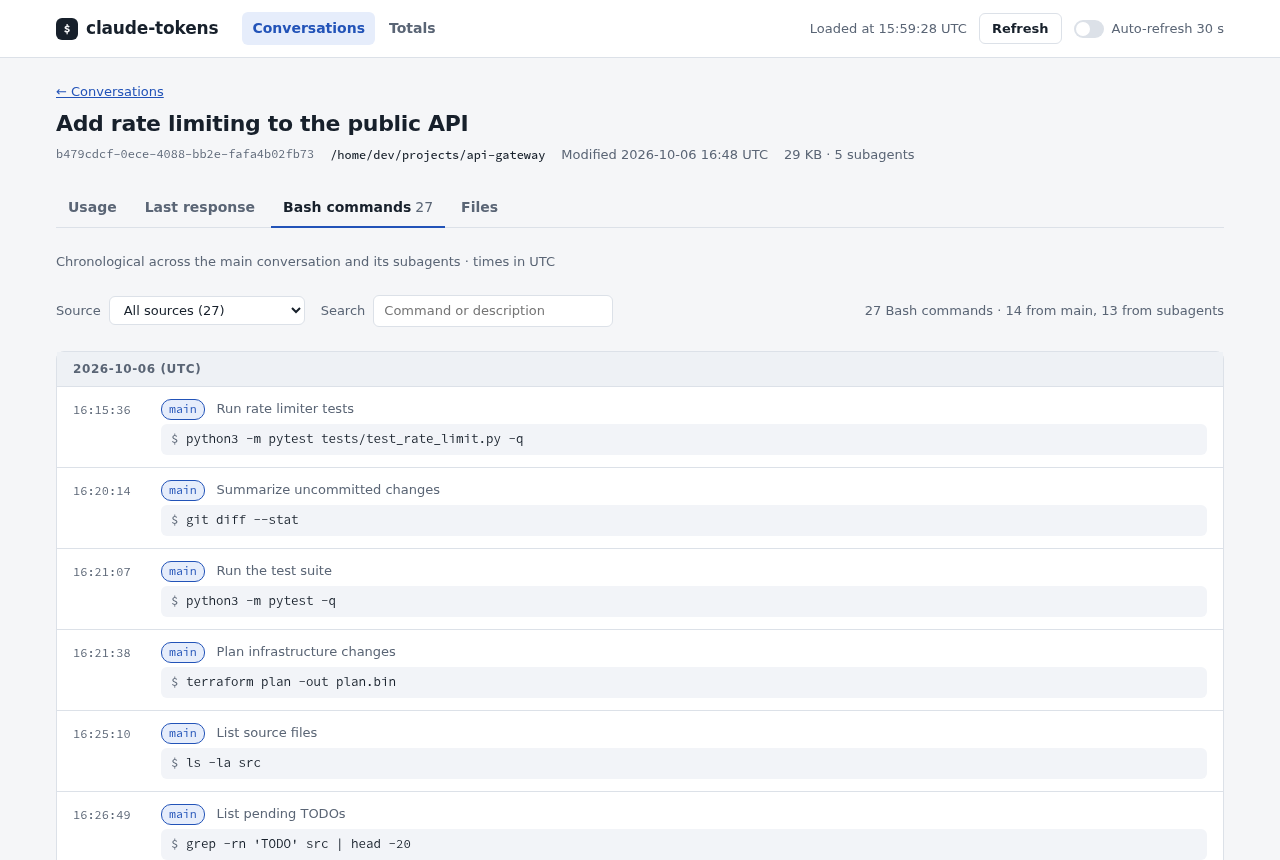
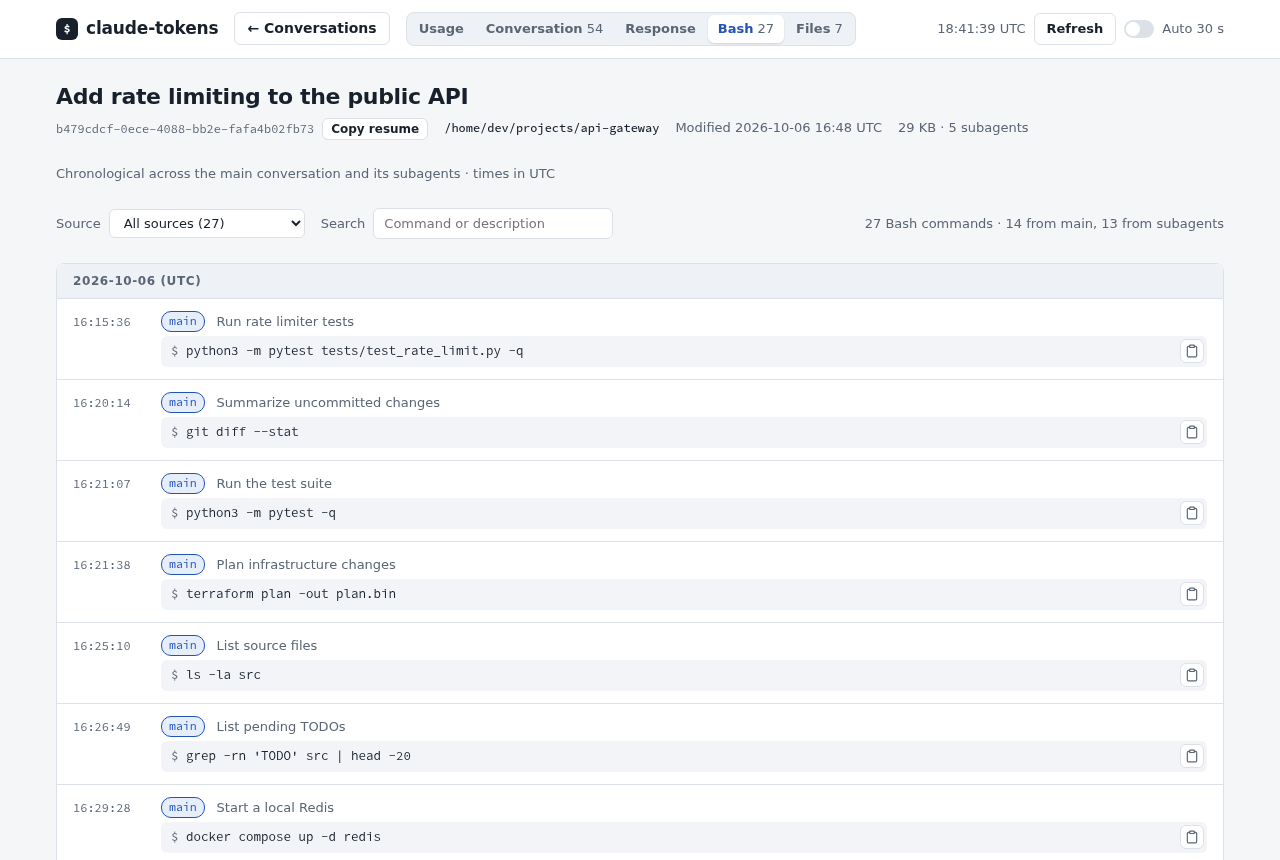
Move conversation tabs to the top bar, shorten project paths and add a back-to-top button

diff --git a/ctokens/web/static/app.js b/ctokens/web/static/app.js
@@ -407,6 +407,10 @@ function listRows(body) {
 const folderLabel = () => (projectsDir ? copyable(h("b", { class: "mono" }, projectsDir), projectsDir) : "the projects folder");
 const folderText = () => projectsDir || "the projects folder";
 
+const pathTail = (path) => String(path || "").split(/[\\/]/).filter(Boolean).slice(-2).join("/");
+// The last two levels of a path, so a deep project folder does not widen the list.
+const shortPath = (path) => (String(path || "").split(/[\\/]/).filter(Boolean).length > 2 ? `…/${pathTail(path)}` : String(path || ""));
+
 const projectMatches = (row, filter) => !filter || String(row.project || "").toLowerCase().includes(filter.toLowerCase());
 
 let listFilter = "";
@@ -499,7 +503,8 @@ VIEWS.list = {
       { key: "modified", label: "Modified (UTC)", render: (r) => h("span", { class: "mono" }, utcMinute(r.modified)) },
       { key: "title", label: "Title", cls: "wrap",
         render: (r) => h("a", { href: convHref(r.id) }, r.title ? r.title : h("span", { class: "muted" }, "Untitled")) },
-      pathCol("project", "Project"),
+      { key: "project", label: "Project", cls: "path", sortValue: (r) => pathTail(r.project),
+        render: (r) => h("span", { class: "mono", title: r.project }, breakable(shortPath(r.project))) },
       { key: "size_kb", label: "Size KB", num: true, render: (r) => fmt(r.size_kb) },
       { key: "subagents", label: "Subagents", num: true, render: (r) => fmt(r.subagents) },
       { key: "id", label: "Conversation id", render: (r) => h("span", { class: "mono muted" }, r.id) },
@@ -532,6 +537,7 @@ function convEntries(id) {
 
 function clearConvCache() {
   Object.assign(convCache, { id: null, entries: new Map() });
+  messagesState.anchor = null;
 }
 
 // Tab counts and the fallback title come from whichever answer arrives first, prefetched or not; true when one changed.
@@ -601,9 +607,8 @@ function convView(path, spec) {
 function redrawConvHead(id) {
   const route = app.route;
   if (!route || route.id !== id || !$("conv-head")) return;
-  const [head, tabs] = convHead(route);
-  $("conv-head").replaceWith(head);
-  $("conv-tabs").replaceWith(tabs);
+  $("conv-head").replaceWith(convHead(route));
+  drawConvNav();
   document.title = `${VIEWS[route.view].title(route, app.data)} · claude-tokens`;
 }
 
@@ -617,13 +622,31 @@ function convHead(route) {
     meta.push(h("span", {}, copyable(h("b", { class: "mono" }, row.project), row.project)), h("span", {}, `Modified ${utcMinute(row.modified)} UTC`),
       h("span", {}, `${fmt(row.size_kb)} KB · ${fmt(row.subagents)} subagent${row.subagents === 1 ? "" : "s"}`));
   }
-  return [h("div", { class: "page-head", id: "conv-head" },
-    h("div", { class: "crumb" }, h("a", { href: "#/" }, "← Conversations")),
+  return h("div", { class: "page-head", id: "conv-head" },
     h("h1", {}, title),
-    h("div", { class: "meta" }, meta)),
-  h("nav", { class: "tabs", id: "conv-tabs", "aria-label": "Conversation views" }, TABS.map(([key, label]) => h("a", {
-    href: convHref(route.id, key), "aria-current": route.view === key ? "page" : null,
-  }, label, counts[key] != null ? h("span", { class: "n" }, fmt(counts[key])) : null)))];
+    h("div", { class: "meta" }, meta));
+}
+
+// The tabs live in the app bar, so they stay on screen however far the page scrolls;
+// inside a conversation a back button takes the place of the main nav.
+const SHORT_TABS = { response: "Response", bash: "Bash" };
+
+function drawConvNav() {
+  const nav = $("conv-nav"), route = app.route;
+  nav.hidden = !route || !route.id;
+  $("nav-back").hidden = nav.hidden;
+  $("nav-main").hidden = !nav.hidden;
+  if (nav.hidden) {
+    nav.replaceChildren();
+    return;
+  }
+  const counts = convCounts.get(route.id) || {};
+  nav.replaceChildren(...TABS.map(([key, label]) => h("a", {
+    href: convHref(route.id, key), title: label, "aria-current": route.view === key ? "page" : null,
+  }, SHORT_TABS[key] || label, counts[key] != null ? h("span", { class: "n" }, fmt(counts[key])) : null)));
+  // On a phone the tabs scroll sideways; keep the current one in view.
+  const current = nav.querySelector("[aria-current]");
+  if (current && nav.scrollWidth > nav.clientWidth) nav.scrollLeft = current.offsetLeft - nav.offsetLeft - 24;
 }
 
 const convTitle = (route) => (convRows.get(route.id) || {}).title || convTasks.get(route.id) || "Conversation";
@@ -872,7 +895,8 @@ VIEWS.files = convView("/files", {
 });
 
 // ---------- conversation messages ----------
-const messagesState = { id: null, source: "main", toBottom: false };
+// anchor: the message at the top of the screen when the tab was left, to come back to the same place.
+const messagesState = { id: null, source: "main", toBottom: false, restore: false, anchor: null };
 const KIND_LABELS = { prompt: "User", meta: "Injected context", summary: "Compaction summary", tool_result: "Tool results" };
 
 const withSource = (path, source) => (source === "main" ? path : `${path}?source=${encodeURIComponent(source)}`);
@@ -976,12 +1000,13 @@ const ellipsis = (text, n) => (text.length > n ? `${text.slice(0, n - 1)}…` : 
 const sourceOption = (s) => `${s.id === "main" ? "main" : `subagent ${s.id.slice(0, 8)}`} · ${ellipsis(String(s.task || ""), 60)}`;
 const visibleMessages = (messages) => messages.filter((m) => m.kind !== "tool_result");
 
-// Off-screen messages have an estimated height (content-visibility), so the end moves as the last ones get laid out.
-function scrollToEnd() {
+// Off-screen messages have an estimated height (content-visibility), so positions move as the ones in view get laid out;
+// the target is applied again until the page height settles.
+function settleScroll(target) {
   let last = -1, stable = 0, frames = 0;
   const step = () => {
     const end = document.documentElement.scrollHeight;
-    window.scrollTo(0, end);
+    window.scrollTo(0, target());
     stable = end === last ? stable + 1 : 0;
     last = end;
     if (stable < 2 && ++frames < 30) requestAnimationFrame(step);
@@ -989,8 +1014,19 @@ function scrollToEnd() {
   step();
 }
 
+const scrollToEnd = () => settleScroll(() => document.documentElement.scrollHeight);
+
+function topMessage() {
+  const top = Math.max(0, document.querySelector(".appbar").getBoundingClientRect().bottom);
+  for (const el of document.querySelectorAll(".msgs > li")) {
+    const box = el.getBoundingClientRect();
+    if (box.bottom > top) return { el, offset: box.top };
+  }
+  return null;
+}
+
 function messagesPath(route) {
-  if (messagesState.id !== route.id) Object.assign(messagesState, { id: route.id, source: "main" });
+  if (messagesState.id !== route.id) Object.assign(messagesState, { id: route.id, source: "main", anchor: null });
   return withSource("/messages", messagesState.source);
 }
 
@@ -998,10 +1034,12 @@ VIEWS.messages = convView(messagesPath, {
   title: (route) => `Conversation · ${convTitle(route)}`,
   load: (route, opts) => {
     // A fresh open starts at the latest message; a refresh keeps the reader where they are.
-    if (!opts.refresh) messagesState.toBottom = true;
+    if (!opts.refresh) Object.assign(messagesState, { toBottom: true, restore: false });
     return loadConversation(route, messagesPath(route), opts);
   },
-  enter: () => { messagesState.toBottom = true; },
+  // Coming back from another tab reattaches the same nodes, so the anchor is still in the page; otherwise start at the end.
+  enter: () => Object.assign(messagesState, { toBottom: true, restore: true }),
+  leave: () => { messagesState.anchor = topMessage(); },
   render(data) {
     let n = 0;
     // Same numbering as the CLI: tool results are not counted, since they render under their call.
@@ -1030,9 +1068,10 @@ VIEWS.messages = convView(messagesPath, {
     return [meta, toolbar, h("ol", { class: "msgs" }, messageItems(shown, tools))];
   },
   after: () => {
-    if (!messagesState.toBottom) return;
-    messagesState.toBottom = false;
-    scrollToEnd();
+    const { anchor, restore, toBottom } = messagesState;
+    Object.assign(messagesState, { anchor: null, restore: false, toBottom: false });
+    if (restore && anchor && anchor.el.isConnected) settleScroll(() => anchor.el.getBoundingClientRect().top + window.scrollY - anchor.offset);
+    else if (toBottom) scrollToEnd();
   },
 });
 
@@ -1278,14 +1317,15 @@ const app = { route: null, seq: 0, busy: false, phase: "loading", data: null, er
 function updateBar() {
   const loaded = $("loaded");
   if (app.busy) loaded.textContent = "Loading…";
-  else if (app.failedAt) loaded.textContent = `Load failed at ${utcTime(app.failedAt)} UTC`;
-  else loaded.textContent = app.loadedAt ? `Loaded at ${utcTime(app.loadedAt)} UTC` : "Loaded at --:--:-- UTC";
+  else if (app.failedAt) loaded.textContent = `Failed at ${utcTime(app.failedAt)} UTC`;
+  else loaded.textContent = app.loadedAt ? `${utcTime(app.loadedAt)} UTC` : "--:--:-- UTC";
   $("refresh").disabled = app.busy;
   const totals = !!app.route && app.route.view === "totals";
   for (const [id, on] of [["nav-list", !totals], ["nav-totals", totals]]) {
     if (on) $(id).setAttribute("aria-current", "page");
     else $(id).removeAttribute("aria-current");
   }
+  drawConvNav();
 }
 
 function runCleanups() {
@@ -1380,7 +1420,15 @@ function setAutoRefresh(on) {
   app.timer = on ? setInterval(() => { if (!app.busy) load({ refresh: true }); }, 30000) : null;
 }
 
+function updateToTop() {
+  $("to-top").hidden = window.scrollY < window.innerHeight;
+}
+
 function boot() {
+  const reduceMotion = matchMedia("(prefers-reduced-motion: reduce)");
+  document.body.append(h("button", { class: "btn to-top", id: "to-top", type: "button", title: "Back to top", "aria-label": "Back to top", hidden: true,
+    onclick: () => window.scrollTo({ top: 0, behavior: reduceMotion.matches ? "auto" : "smooth" }) }, "↑"));
+  window.addEventListener("scroll", updateToTop, { passive: true });
   const auto = $("auto");
   auto.checked = false;
   auto.addEventListener("change", () => setAutoRefresh(auto.checked));

diff --git a/ctokens/web/static/app.css b/ctokens/web/static/app.css
@@ -34,7 +34,7 @@ code, .mono { font-family: var(--mono); font-size: 0.92em; }
 /* App bar */
 .appbar { position: sticky; top: 0; z-index: 5; background: var(--surface); border-bottom: 1px solid var(--border); }
 .appbar-in { max-width: 1200px; margin: 0 auto; padding-block: var(--s3); padding-inline: var(--s4);
-  display: flex; flex-wrap: wrap; align-items: center; gap: var(--s3) var(--s5); }
+  display: flex; flex-wrap: wrap; align-items: center; gap: var(--s3) var(--s4); }
 .brand { display: flex; align-items: center; gap: var(--s2); font-weight: 650; font-size: var(--t-lg); letter-spacing: -0.01em;
   color: var(--fg); text-decoration: none; }
 .brand-mark { width: 22px; height: 22px; border-radius: 6px; background: var(--fg); color: var(--bg);
@@ -43,7 +43,9 @@ code, .mono { font-family: var(--mono); font-size: 0.92em; }
 .nav a { padding: 6px 10px; border-radius: 6px; color: var(--muted); font-weight: 550; text-decoration: none; }
 .nav a[aria-current="page"] { background: var(--accent-soft); color: var(--accent); }
 .nav a:hover { color: var(--fg); }
-.bar-right { margin-left: auto; display: flex; flex-wrap: wrap; align-items: center; gap: var(--s3); color: var(--muted); font-size: var(--t-sm); }
+.nav[hidden], .back-btn[hidden] { display: none; }
+.back-btn { text-decoration: none; }
+.bar-right { margin-left: auto; display: flex; flex-wrap: wrap; align-items: center; gap: var(--s2); color: var(--muted); font-size: var(--t-sm); }
 .loaded { font-variant-numeric: tabular-nums; }
 .btn { border: 1px solid var(--border); background: var(--surface); padding: 5px 12px; border-radius: 6px; cursor: pointer;
   font-weight: 550; color: var(--fg); }
@@ -60,7 +62,6 @@ code, .mono { font-family: var(--mono); font-size: 0.92em; }
 /* Page */
 main { max-width: 1200px; margin: 0 auto; padding-block: var(--s5) var(--s6); padding-inline: var(--s4); display: grid; gap: var(--s5); }
 .page-head { display: grid; gap: var(--s2); min-width: 0; }
-.crumb { font-size: var(--t-sm); }
 h1 { font-size: var(--t-xl); line-height: 1.25; margin: 0; letter-spacing: -0.015em; text-wrap: balance; overflow-wrap: anywhere; }
 h2 { font-size: var(--t-lg); margin: 0; letter-spacing: -0.01em; }
 .meta { display: flex; flex-wrap: wrap; gap: var(--s1) var(--s4); color: var(--muted); font-size: var(--t-sm); min-width: 0; }
@@ -76,14 +77,18 @@ h2 { font-size: var(--t-lg); margin: 0; letter-spacing: -0.01em; }
 details.footnote summary { cursor: pointer; width: fit-content; }
 details.footnote > div { margin-top: var(--s1); overflow-wrap: anywhere; }
 
-/* Tabs */
-/* The divider is an inset shadow so the active underline can cover it without overflowing the bar. */
-.tabs { display: flex; flex-wrap: wrap; gap: var(--s1); box-shadow: inset 0 -1px 0 var(--border); }
-.tabs a { padding: 8px 12px; color: var(--muted); font-weight: 550; text-decoration: none;
-  border-bottom: 2px solid transparent; white-space: nowrap; }
-.tabs a:hover { color: var(--fg); }
-.tabs a[aria-current="page"] { color: var(--fg); border-bottom-color: var(--accent); }
-.tabs .n { font-variant-numeric: tabular-nums; color: var(--muted); font-weight: 400; margin-left: 4px; }
+/* Conversation tabs, in the app bar */
+.conv-nav { display: flex; gap: 2px; padding: 2px; border: 1px solid var(--border); border-radius: 8px; background: var(--surface-2); }
+.conv-nav[hidden] { display: none; }
+.conv-nav a { padding: 4px 10px; border-radius: 6px; color: var(--muted); font-weight: 550; font-size: var(--t-sm); text-decoration: none;
+  white-space: nowrap; }
+.conv-nav a:hover { color: var(--fg); }
+.conv-nav a[aria-current="page"] { background: var(--surface); color: var(--accent); box-shadow: 0 1px 2px rgb(0 0 0 / 0.12); }
+.conv-nav .n { margin-left: 4px; color: var(--muted); font-weight: 400; font-variant-numeric: tabular-nums; }
+
+.to-top { position: fixed; right: var(--s4); bottom: var(--s4); z-index: 6; width: 40px; height: 40px; padding: 0; border-radius: 50%;
+  font-size: var(--t-lg); box-shadow: 0 2px 8px rgb(0 0 0 / 0.18); }
+.to-top[hidden] { display: none; }
 
 /* Stats */
 .stats { display: grid; grid-template-columns: repeat(auto-fit, minmax(170px, 1fr)); gap: var(--s3); }
@@ -258,9 +263,15 @@ tr.group .n { margin-left: var(--s2); color: var(--muted); font-weight: 400; }
 .blk-body pre { margin: 0; max-height: 420px; overflow: auto; padding: 6px 10px; background: var(--code-bg); border-radius: 6px;
   font-family: var(--mono); font-size: 12px; white-space: pre-wrap; overflow-wrap: anywhere; }
 
+/* Inside a conversation the back button and the tabs need the room of the brand name to fit in one row. */
+@media (max-width: 1100px) {
+  .appbar-in:has(.back-btn:not([hidden])) .brand-name { display: none; }
+}
 @media (max-width: 640px) {
-  /* The bar wraps to three rows on a phone; fixed, it would hide a fifth of the screen. */
-  .appbar { position: static; }
+  /* Two short rows stay on screen: the brand name, load time and auto-refresh switch give way to the tabs. */
+  .appbar-in { gap: var(--s2) var(--s3); padding-block: var(--s2); }
+  .brand-name, .loaded, .switch, .back-btn .lbl { display: none; }
+  .conv-nav { order: 1; width: 100%; overflow-x: auto; }
   .msg { padding: var(--s3); }
   .ustats { width: 100%; margin-left: 0; column-gap: var(--s3); }
 }

diff --git a/ctokens/web/static/index.html b/ctokens/web/static/index.html
@@ -18,15 +18,17 @@
 <body>
 <header class="appbar">
   <div class="appbar-in">
-    <a class="brand" href="#/"><span class="brand-mark" aria-hidden="true">$</span>claude-tokens</a>
-    <nav class="nav" aria-label="Main">
+    <a class="brand" href="#/"><span class="brand-mark" aria-hidden="true">$</span><span class="brand-name">claude-tokens</span></a>
+    <a class="btn back-btn" id="nav-back" href="#/" title="Back to conversations" hidden>← <span class="lbl">Conversations</span></a>
+    <nav class="nav" id="nav-main" aria-label="Main">
       <a id="nav-list" href="#/">Conversations</a>
       <a id="nav-totals" href="#/totals">Totals</a>
     </nav>
+    <nav class="conv-nav" id="conv-nav" aria-label="Conversation views" hidden></nav>
     <div class="bar-right">
-      <span class="loaded" id="loaded" aria-live="polite">Loaded at --:--:-- UTC</span>
+      <span class="loaded" id="loaded" title="Loaded at" aria-live="polite">--:--:-- UTC</span>
       <button class="btn" id="refresh" type="button">Refresh</button>
-      <label class="switch"><input type="checkbox" id="auto" role="switch" autocomplete="off"> Auto-refresh 30 s</label>
+      <label class="switch" title="Refresh every 30 seconds"><input type="checkbox" id="auto" role="switch" autocomplete="off"> Auto 30 s</label>
     </div>
   </div>
 </header>

diff --git a/tools/screenshots.js b/tools/screenshots.js
@@ -30,7 +30,7 @@ const SHOTS = [
   });
   for (const shot of SHOTS) {
     await page.goto(`${base}/${shot.hash}`);
-    await page.waitForFunction(() => document.getElementById("loaded").textContent.startsWith("Loaded"), null, { timeout: 120000 });
+    await page.waitForFunction(() => /^\d\d:\d\d:\d\d UTC$/.test(document.getElementById("loaded").textContent), null, { timeout: 120000 });
     await page.waitForTimeout(500);
     if ((await page.textContent("body")).includes(projectsDir)) throw new Error(`${shot.name}: the real projects path leaked`);
     let clip;

diff --git a/README.md b/README.md
@@ -263,12 +263,18 @@ modified (today, yesterday, this week, last week, earlier this month, then by
 month; UTC days, weeks start on Monday) while it is sorted by date. Filter and
 search cover every conversation, not just the current page. Coming back from a
 conversation shows the list at once, on the same page and scroll position, and
-reloads it behind.
+reloads it behind. The project column shows the last two folders of the path;
+hover it for the full path.
 
 Opening a conversation loads the other tabs (usage, conversation, last
 response, Bash commands, files) in the background, so switching tabs is
 immediate. They are kept until you go back to the list; **Refresh** reloads the
 current tab and the others reload the next time you open them.
+
+Inside a conversation the top bar holds its tabs and a **← Conversations**
+button, so they stay on screen however far you scroll. The **Conversation** tab
+keeps the message you were reading when you switch to another tab and back. A
+round **↑** button at the bottom right of every page goes back to the top.
 
 Double-click a conversation id, project path, projects folder, file path, tool
 name or a code block in the last response to copy it to the clipboard. Bash
